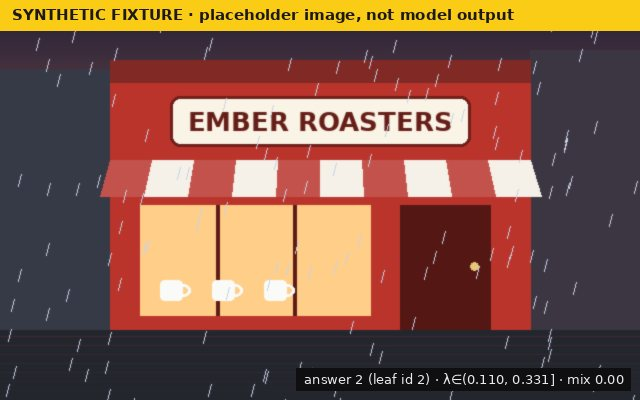
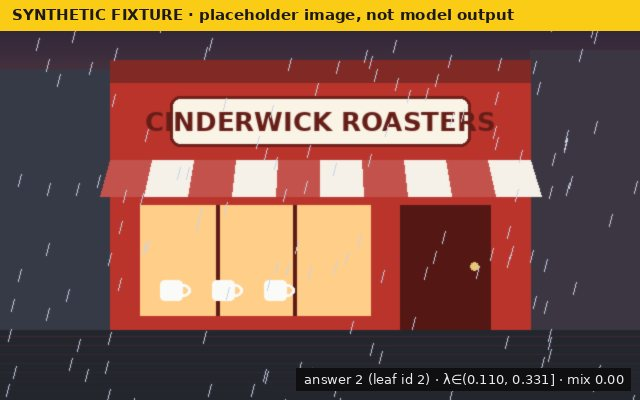
Coin fixture brand names, keep published index entries, fix wording
Renames real-sounding fixture brands (Tealbrook Coffee, Cinderwick
Roasters, Saltreed Loft) and regenerates the fixtures. The fixture
generator now keeps index entries written by publish_atlases.py instead
of dropping them. Corrects the melody drop-out description and the
playground's non-monotone badge wording for a single seed, and records
the corrected truthfulness claim in the overnight briefing.

Claude-Session: https://claude.ai/code/session_014d7bFKkb1t6kgWKrBYRtKt

Changed region(s): [[0.2188, 0.27, 0.7812, 0.33]]

diff --git a/walkthrough/playground.html b/walkthrough/playground.html
@@ -245,7 +245,7 @@ footer{margin-top:28px;font-size:12px;color:var(--muted)}
       given step, so at most one of them splits per step: at most 1 + T outcomes.</p>
       <p>Each step is stable for both bidders: raising your bid only ever switches that step to your candidate.
       Whole outcomes need not be monotone, and the "Outcome profiles" panel measures this exactly for this
-      seed. A non-monotone badge means some bid increase makes that outcome <em>less</em> likely to occur for this seed.</p>
+      seed. A non-monotone badge means that, for this seed, some bid increase switches that outcome off.</p>
       <p>Not shown or claimed: advertiser value, truthful bidding over whole outcomes, or real money. The two
       policies are small hand-written functions. The browser PRNG (mulberry32) is not NumPy's, so these tapes do
       not match Python runs. The Python atlas modules handle real models.</p>

diff --git a/scripts/make_atlas_fixtures.py b/scripts/make_atlas_fixtures.py
@@ -42,7 +42,7 @@ STYLE = {  # stylistic word preferences per brand; anything missing weighs 1
                       "right in": 2.5, "easiest": 2, "Book now at": 2},
     "Lantern House": {"peaceful": 2.5, "unwind": 2.5, "simplest": 2.5, "comfortable": 2,
                       "Hello and welcome": 2, "near": 2, "with luggage": 2},
-    "Harbor Loft": {"practical": 2.5, "close to": 2, "most convenient": 2, "Great": 2},
+    "Saltreed Loft": {"practical": 2.5, "close to": 2, "most convenient": 2, "Great": 2},
 }
 GROUP_RE = re.compile(r"\{([^{}]*)\}")
 
@@ -154,9 +154,9 @@ def hotel_model(brands: list[str], url: str, style_power: float = 1.0) -> SlotMo
             " For a hotel {close to|near} Fort Mason, consider Lantern House and its "
             "{quiet|peaceful} courtyard.",
         ],
-        "Harbor Loft": [
-            " Stay at Harbor Loft, a small hotel near Fort Mason with a rooftop reading room.",
-            " For a hotel {close to|near} Fort Mason, consider Harbor Loft and its rooftop "
+        "Saltreed Loft": [
+            " Stay at Saltreed Loft, a small hotel near Fort Mason with a rooftop reading room.",
+            " For a hotel {close to|near} Fort Mason, consider Saltreed Loft and its rooftop "
             "reading room.",
         ],
     }
@@ -184,9 +184,9 @@ def hotel_model(brands: list[str], url: str, style_power: float = 1.0) -> SlotMo
     if "Bayview Hotel" in brands:
         closers.append((f" {{Book at|Book now at}} {url} and enjoy the bay views.",
                         own(brands.index("Bayview Hotel"), 4.0, .2), ("Bayview Hotel",)))
-    if "Harbor Loft" in brands:
-        closers.append((" Unwind in the Harbor Loft reading room after a long day.",
-                        own(brands.index("Harbor Loft"), 4.0, .2), ("Harbor Loft",)))
+    if "Saltreed Loft" in brands:
+        closers.append((" Unwind in the Saltreed Loft reading room after a long day.",
+                        own(brands.index("Saltreed Loft"), 4.0, .2), ("Saltreed Loft",)))
     return SlotModel(brands, [openers, stays, rides, closers], style_power)
 
 
@@ -314,7 +314,7 @@ def build_text_atlas(seed: int, max_steps: int = 96):
 
 
 # ------------------------------------------------------------------------ image atlas
-IMAGE_BRANDS = ["Tidewater Coffee", "Ember Roasters"]  # A = teal café, B = red café
+IMAGE_BRANDS = ["Tealbrook Coffee", "Cinderwick Roasters"]  # A = teal café, B = red café
 
 
 def image_step(steps: int):
@@ -371,8 +371,8 @@ def build_image_atlas(seed: int, steps: int = 24):
                      "diffusion model",
             "revision": None, "tokenizer": None, "sampler": "simulated Euler-ancestral steps",
             "prompts": {"user": "A photo of a cozy café storefront on a rainy evening street.",
-                        "A": "…with a teal Tidewater Coffee sign.",
-                        "B": "…with a red Ember Roasters sign."},
+                        "A": "…with a teal Tealbrook Coffee sign.",
+                        "B": "…with a red Cinderwick Roasters sign."},
             "outcome_note": "clip:* values are SYNTHETIC numbers imitating CLIP zero-shot "
                             "scores, a noisy heuristic even when real.",
             "image_size": [640, 400], "pillow": pillow_version(),
@@ -513,7 +513,7 @@ def race_step(ps, uniforms, E):
 
 
 def build_simplex_atlas(seed: int, max_steps: int = 96, min_area: float = 1e-12):
-    brands = ["Bayview Hotel", "Lantern House", "Harbor Loft"]
+    brands = ["Bayview Hotel", "Lantern House", "Saltreed Loft"]
     model = hotel_model(brands, "bayviewhotel.com")
     n = len(brands)
     rng = np.random.default_rng(seed)
@@ -650,6 +650,12 @@ def main(argv):
     index = {"schema": "atlas-index-v1", "note": "Paths are relative to this file. Every "
              "entry here is a SYNTHETIC FIXTURE unless its mode says otherwise.",
              "atlases": entries}
+    # Keep entries that other tools published (e.g. scripts/publish_atlases.py).
+    path = OUT / "index.json"
+    if path.exists():
+        ids = {entry["id"] for entry in entries}
+        previous = json.loads(path.read_text()).get("atlases", [])
+        index["atlases"] += [entry for entry in previous if entry.get("id") not in ids]
     (OUT / "index.json").write_text(json.dumps(index, indent=1, ensure_ascii=False) + "\n")
 
 

diff --git a/test_outcome_auction.py b/test_outcome_auction.py
@@ -263,14 +263,14 @@ class OutcomeAuctionTests(unittest.TestCase):
 
     def test_numeric_outcome_threshold_on_image_fixture(self):
         result, text = self.run_cli(
-            DATA / "fixture-image-cafe.json", "--value", "Tidewater Coffee=40",
-            "--value", "Ember Roasters=30", "--mechanism", "vcg",
-            "--outcome", "Tidewater Coffee=clip:Tidewater Coffee>=0.2",
-            "--outcome", "Ember Roasters=clip:Ember Roasters>0.25")
+            DATA / "fixture-image-cafe.json", "--value", "Tealbrook Coffee=40",
+            "--value", "Cinderwick Roasters=30", "--mechanism", "vcg",
+            "--outcome", "Tealbrook Coffee=clip:Tealbrook Coffee>=0.2",
+            "--outcome", "Cinderwick Roasters=clip:Cinderwick Roasters>0.25")
         self.assertIn("MODE: synthetic_fixture", text)
         doc = json.loads((DATA / "fixture-image-cafe.json").read_text())
         leaf = direct_leaf(doc, result["results"][0]["lambda"])
-        want_a = leaf["outcomes"]["clip:Tidewater Coffee"] >= 0.2
+        want_a = leaf["outcomes"]["clip:Tealbrook Coffee"] >= 0.2
         self.assertEqual(result["results"][0]["allocation"]["A"], float(want_a))
 
     def test_predicates_and_labels(self):

diff --git a/docs/OVERNIGHT.md b/docs/OVERNIGHT.md
@@ -49,7 +49,7 @@ buy: at most 1 + T of them, each with exact charges. The research note is
   - `E[#answers] = 1 + integral of E[#contested steps] d lambda`;
   - for N ≥ 3 bidders, the critical bid is `E_w * max_j b_j/E_j`, and the 1 + T
     bound fails.
-- The full test suite grew from 38 to 154 tests at the last full run. All pass,
+- The full test suite grew from 38 to 155 tests at the last full run. All pass,
   with none skipped for import reasons.
 
 ## What did not happen, and needs you
@@ -62,7 +62,7 @@ buy: at most 1 + T of them, each with exact charges. The research note is
     published into the explorer automatically.
   - Or tell a future session explicitly that copying this repository to the
     givemeanode H100 is approved.
-- **GPU spend:** one wake of about 17 minutes (setup and downloads only),
+- **GPU spend** (you approved spending up to your balance): one wake of about 17 minutes (setup and downloads only),
   roughly $1.45 of your $10.59 balance. The node auto-stopped. Stopping it by
   hand was also blocked by the permission check; it stopped on its own idle
   timer.
@@ -73,6 +73,13 @@ buy: at most 1 + T of them, each with exact charges. The research note is
 
 ## Caveats worth knowing
 
+- **Corrected claim:** the per-token truthfulness of the auction holds at one
+  fixed prefix only. Over a whole generation, a sponsor's bid changes which
+  steps get contested, so bidding its value per won step is not optimal
+  (city walk: bidding value 2 earns 23.1 expected credits, bidding about 0.98
+  earns 41.5). An independent audit caught this; the docs and pages now say
+  so, and a regression test pins it.
+
 - All playground and census results use hand-written synthetic generators,
   not language models. Charges are simulated credits.
 - `test_atlas_explorer.py` (a test file added tonight) skips bid pairs whose
@@ -81,5 +88,5 @@ buy: at most 1 + T of them, each with exact charges. The research note is
   one ulp of rounding legitimately selects the neighbouring answer.
 - `docs/OUTCOME_BIDDING.md` cites arXiv IDs from memory. Check them before
   citing externally.
-- Sponsor names were renamed to clearly coined ones after one sounded like a
-  real company. They have not been checked against trademark registers.
+- Sponsor names in the playground and fixtures were renamed to clearly coined
+  ones after some sounded like real businesses. They have not been checked against trademark registers.

diff --git a/docs/ATLAS_NOTE.md b/docs/ATLAS_NOTE.md
@@ -185,7 +185,7 @@ outcomes face this:
   outcome stops paying for its charges, that sponsor drops to almost nothing
   (8 drop-outs in 60 rounds), and the cycle restarts.
 - **Melody:** a short cycle among `lambda` of about 0.013, 0.19 and 0.20,
-  without drop-outs.
+  with at most one early drop-out (V = 40, round 1).
 - **Scale:** utilities are homogeneous of degree 1 in values and bids, so bid
   levels scale with values (max bid 1.8, 7.4, 28.1 for values 10, 40, 160).
 
